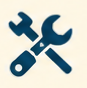
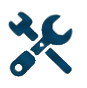
imagesIco commit

diff --git a/src/pages/MapPage.tsx b/src/pages/MapPage.tsx
@@ -6,6 +6,12 @@ import InteractiveMapNavbar from '../components/InteractiveMapNavbar'
 import styles from './MapPage.module.css'
 
 import mapaDelEdificio from "../../recursos/mapaHD.png"
+import ico1S4 from "../../recursos/llaveIcon.png"
+import ico2S4 from "../../recursos/cocineroIcon.png"
+import ico3S4 from "../../recursos/pcIcon.png"
+import ico4S4 from "../../recursos/bancosIcon.png"
+
+
 
 
 const COURSES = Array.from({ length: 8 }, (_, i) => `Curso ${i + 1}`)
@@ -29,6 +35,7 @@ const SECTOR_CARDS = [
     id: 's1',
     code: 'S1',
     name: 'Talleres',
+    image:ico1S4,
     description: 'Espacios de formacion tecnica y practica',
     icon: WrenchIcon,
     cardClass: styles.sectorCardS1,
@@ -37,6 +44,7 @@ const SECTOR_CARDS = [
     id: 's2',
     code: 'S2',
     name: 'Cocina',
+    image:ico2S4,
     description: 'Cocina, Pasteleria y Cocteleria',
     icon: WrenchIcon,
     cardClass: styles.sectorCardS2,
@@ -45,6 +53,7 @@ const SECTOR_CARDS = [
     id: 's3',
     code: 'S3',
     name: 'Administración / Informatica	',
+    image:ico3S4,
     description: 'Oficinas administrativas e informática',
     icon: WrenchIcon,
     cardClass: styles.sectorCardS3,
@@ -53,6 +62,7 @@ const SECTOR_CARDS = [
     id: 's4',
     code: 'S4',
     name: 'Patio y Buffet',
+    image:ico4S4,
     description: 'Patio principal y servicio de buffet',
     icon: WrenchIcon,
     cardClass: styles.sectorCardS4,
@@ -65,6 +75,7 @@ const UTILITY_CARDS = [
     title: 'Baños',
     description: 'Baños para estudiantes',
     icon: RestroomIcon,
+    image:ico1S4,
     cardClass: styles.utilityCard1,
   },
   {
@@ -181,7 +192,7 @@ export default function MapPage() {
 
             <div className={styles.sectorGrid}>
               {SECTOR_CARDS.map((sector) => {
-                const Icon = sector.icon
+                //const Icon = sector.icon
 
                 return (
                   <button
@@ -191,7 +202,7 @@ export default function MapPage() {
                   >
                     <span className={styles.sectorCode}>{sector.code}</span>
                     <div className={styles.sectorIconWrap}>
-                      <Icon />
+                      <img src={sector.image} width="60%" />
                     </div>
                     <div className={styles.sectorFooter}>
                       <div className={styles.sectorTextGroup}>